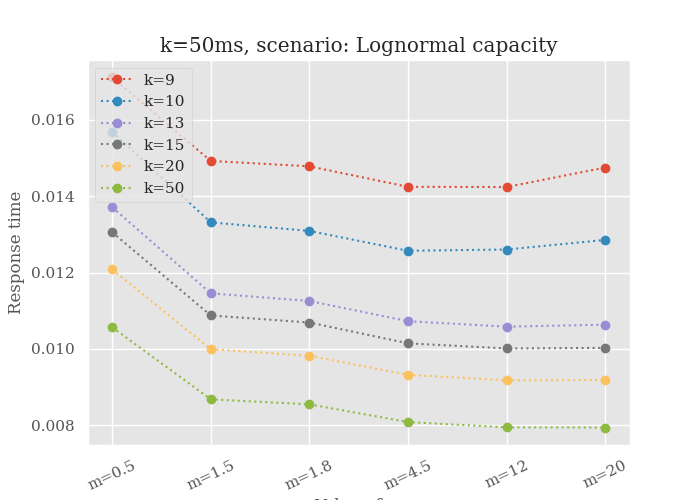
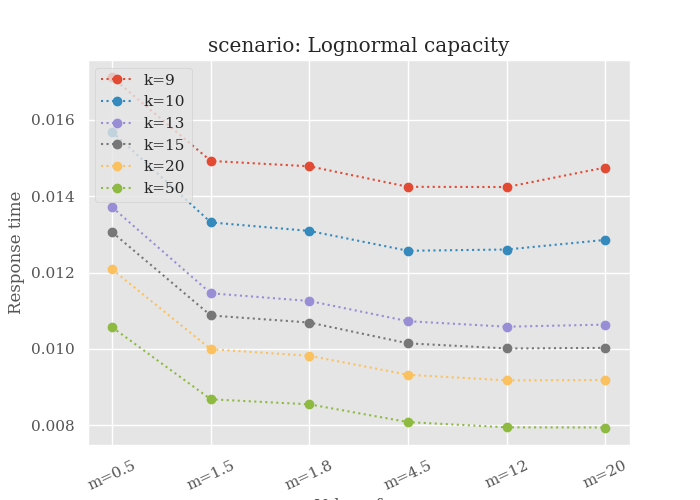
corretto titoli e queueLength

Changed region(s): [[0.24, 0.06, 0.81, 0.12], [0.21, 0.09, 0.24, 0.12]]

diff --git a/analisiDati.py b/analisiDati.py
@@ -1298,7 +1298,7 @@ def plot_everything_scenario():
         plt.xticks([k for k in range(len(index))], [k for k in index])
         var = mode.split('-')[0]
         var2 = mode.split('-')[1]
-        plt.title('k=' + str(i) + "ms, scenario: " + var + " " + var2 )
+        plt.title("scenario: " + var + " " + var2 )
         plt.xticks(rotation=25)
         plt.xlabel("Value of m")
         plt.ylabel("Response time")
